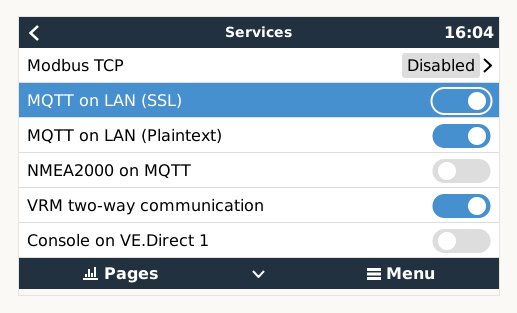
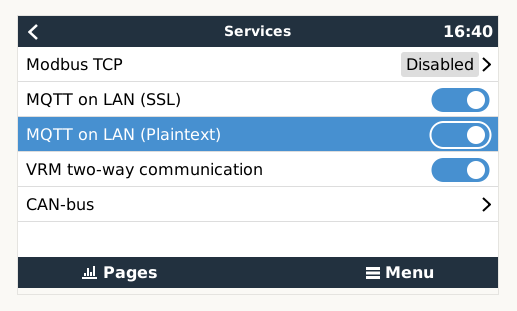
Update MQTT image and instructions

diff --git a/src/app/components/Views/MqttUnavailable.js b/src/app/components/Views/MqttUnavailable.js
@@ -8,7 +8,7 @@ export default ({ viewUnmounting }) => (
         <span className="text text--large">
           Could not connect to the MQTT server. <br />
           Please check that MQTT is enabled in your settings: <br />
-          Remote Console > Settings > Services > MQTT.
+          Remote Control > Settings > Services > MQTT on LAN (Plaintext)
         </span>
         <div className="image-container">
           <img src={require("../../../images/mqtt-settings-v2.42.png")} />
